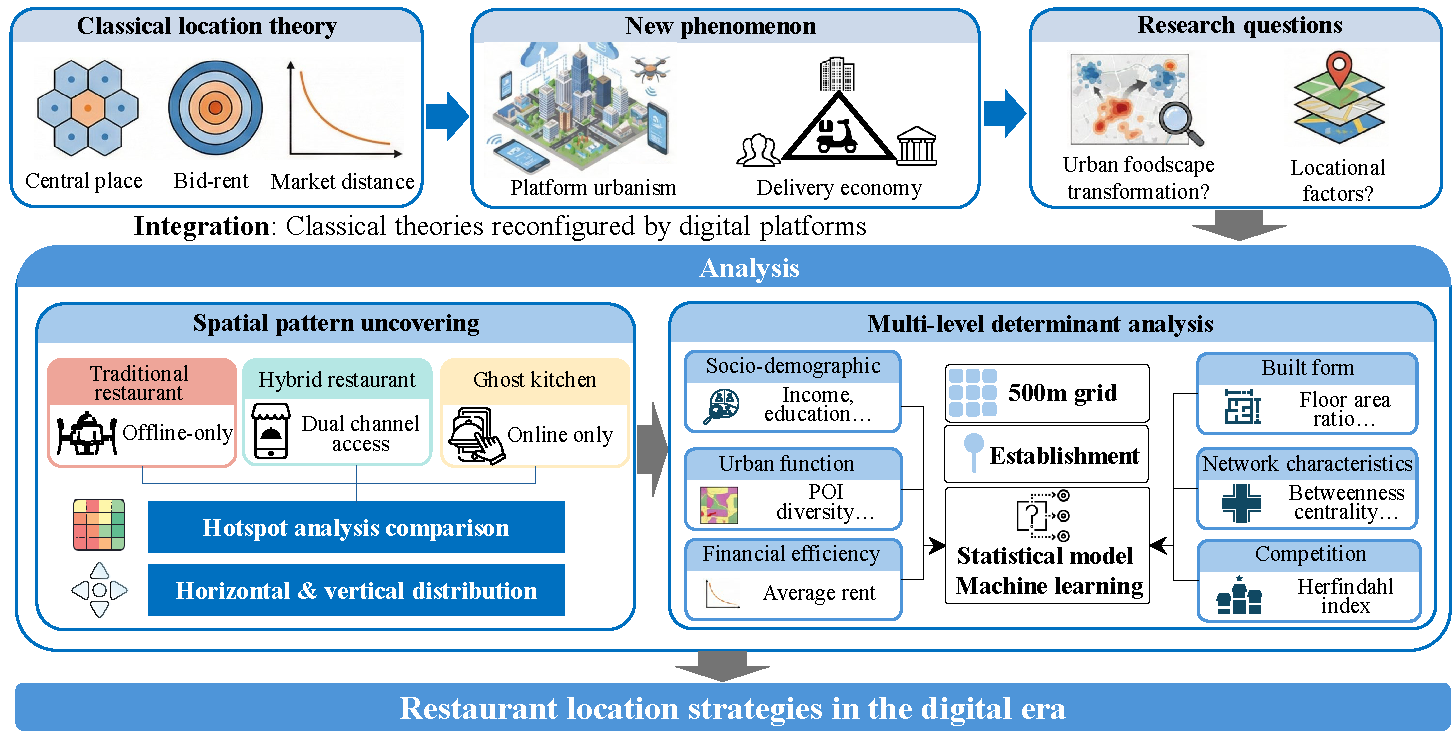
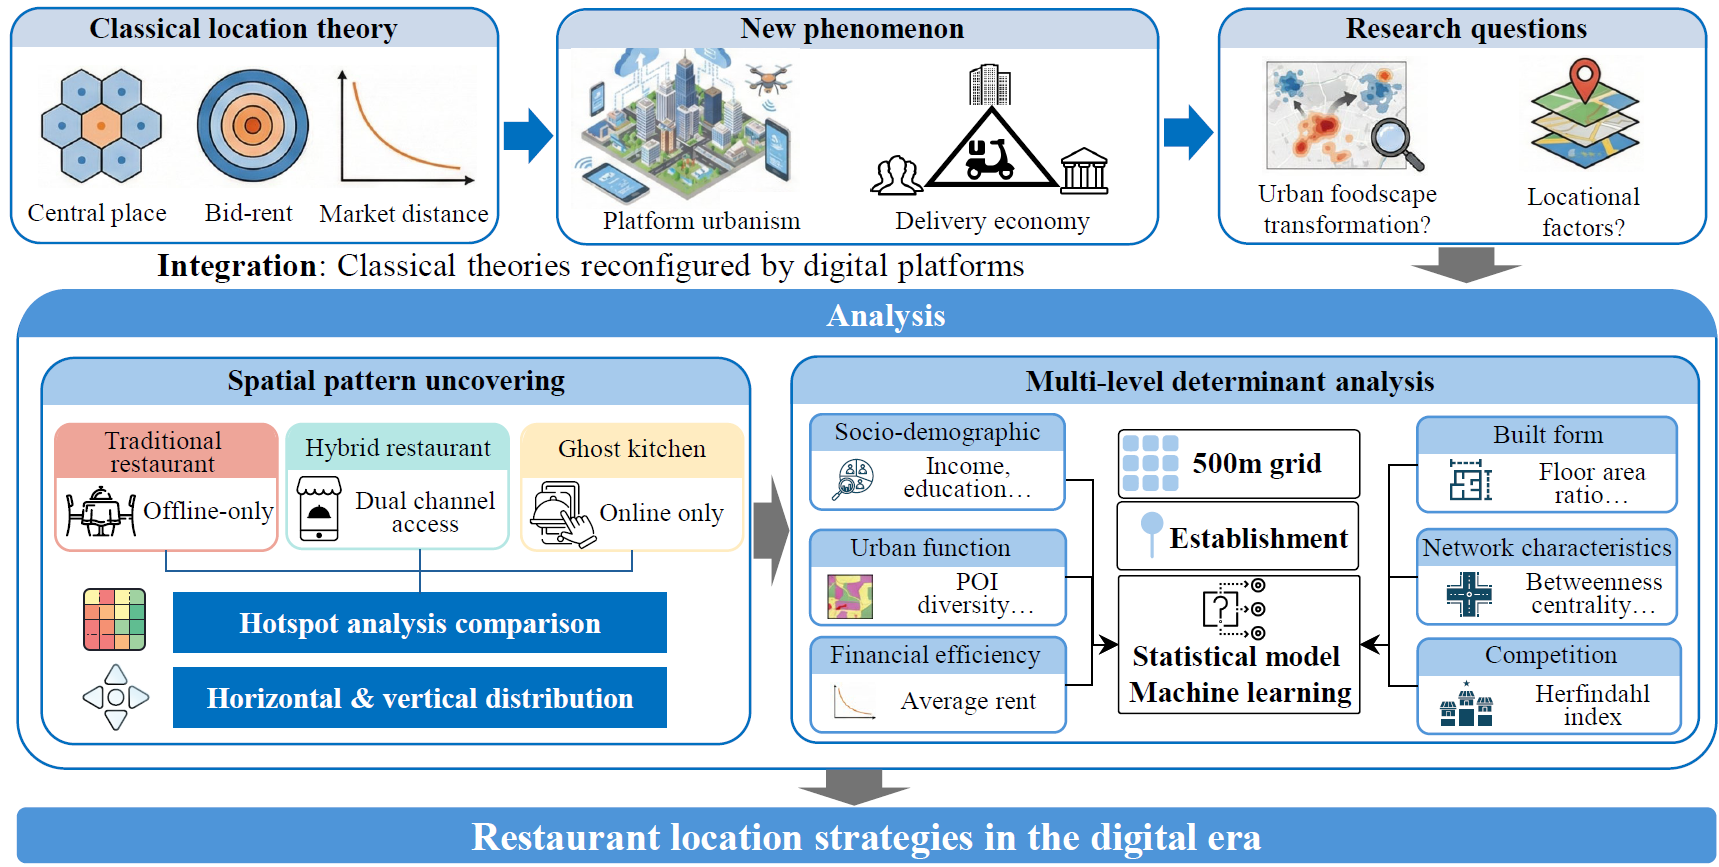
fix bug

diff --git a/content/publications/tang2025routekg/index.md b/content/publications/tang2025routekg/index.md
@@ -12,7 +12,7 @@ authors:
   - "Zhenliang Ma"
 
 venue: "IEEE TITS"
-year: 2025o
+year: 2025
 
 tags:
   - "Adaptive Commercial Systems"
